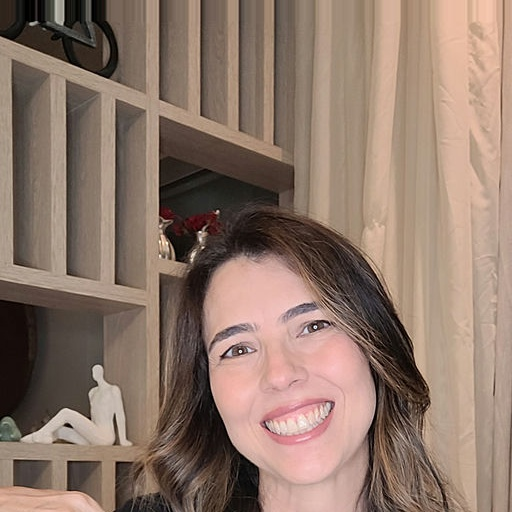
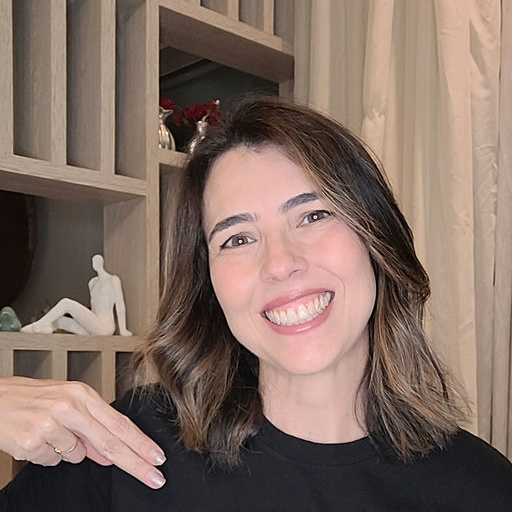
Corrige altura de Fabiana e centraliza corpo de Jaine

diff --git a/index.html b/index.html
@@ -24,7 +24,7 @@
                 <!-- CARD: Ana Elisa Iemini -->
                 <div class="mentor-card" data-index="0">
                     <div class="mentor-avatar-container">
-                        <img src="elementos/mentores/ana-elisa-iemini.jpg?v=3" alt="Foto de Ana Elisa Iemini" class="mentor-avatar-img" loading="lazy">
+                        <img src="elementos/mentores/ana-elisa-iemini.jpg?v=4" alt="Foto de Ana Elisa Iemini" class="mentor-avatar-img" loading="lazy">
                     </div>
                     <div class="mentor-info">
                         <h4 class="mentor-name">Ana Elisa Iemini</h4>
@@ -42,7 +42,7 @@
                 <!-- CARD: André Luis da Silva -->
                 <div class="mentor-card" data-index="1">
                     <div class="mentor-avatar-container">
-                        <img src="elementos/mentores/andre-luis-da-silva.jpg?v=3" alt="Foto de André Luis da Silva" class="mentor-avatar-img" loading="lazy">
+                        <img src="elementos/mentores/andre-luis-da-silva.jpg?v=4" alt="Foto de André Luis da Silva" class="mentor-avatar-img" loading="lazy">
                     </div>
                     <div class="mentor-info">
                         <h4 class="mentor-name">André Luis da Silva</h4>
@@ -60,7 +60,7 @@
                 <!-- CARD: Antônio Augusto Alves da Silva -->
                 <div class="mentor-card" data-index="2">
                     <div class="mentor-avatar-container">
-                        <img src="elementos/mentores/antonio-augusto-alves-da-silva.jpg?v=3" alt="Foto de Antônio Augusto Alves da Silva" class="mentor-avatar-img" loading="lazy">
+                        <img src="elementos/mentores/antonio-augusto-alves-da-silva.jpg?v=4" alt="Foto de Antônio Augusto Alves da Silva" class="mentor-avatar-img" loading="lazy">
                     </div>
                     <div class="mentor-info">
                         <h4 class="mentor-name">Antônio Augusto Alves da Silva</h4>
@@ -78,7 +78,7 @@
                 <!-- CARD: Bruno Mecchi Gouvea -->
                 <div class="mentor-card" data-index="3">
                     <div class="mentor-avatar-container">
-                        <img src="elementos/mentores/bruno-mecchi-gouvea.jpg?v=3" alt="Foto de Bruno Mecchi Gouvea" class="mentor-avatar-img" loading="lazy">
+                        <img src="elementos/mentores/bruno-mecchi-gouvea.jpg?v=4" alt="Foto de Bruno Mecchi Gouvea" class="mentor-avatar-img" loading="lazy">
                     </div>
                     <div class="mentor-info">
                         <h4 class="mentor-name">Bruno Mecchi Gouvea</h4>
@@ -96,7 +96,7 @@
                 <!-- CARD: Fabiana Gomes Almeida Calil -->
                 <div class="mentor-card" data-index="4">
                     <div class="mentor-avatar-container">
-                        <img src="elementos/mentores/fabiana-gomes-almeida-calil.jpg?v=3" alt="Foto de Fabiana Gomes Almeida Calil" class="mentor-avatar-img" loading="lazy">
+                        <img src="elementos/mentores/fabiana-gomes-almeida-calil.jpg?v=4" alt="Foto de Fabiana Gomes Almeida Calil" class="mentor-avatar-img" loading="lazy">
                     </div>
                     <div class="mentor-info">
                         <h4 class="mentor-name">Fabiana Gomes Almeida Calil</h4>
@@ -114,7 +114,7 @@
                 <!-- CARD: Giulia Silva da Silva Amarante -->
                 <div class="mentor-card" data-index="5">
                     <div class="mentor-avatar-container">
-                        <img src="elementos/mentores/giulia-silva-da-silva-amarante.jpg?v=3" alt="Foto de Giulia Silva da Silva Amarante" class="mentor-avatar-img" loading="lazy">
+                        <img src="elementos/mentores/giulia-silva-da-silva-amarante.jpg?v=4" alt="Foto de Giulia Silva da Silva Amarante" class="mentor-avatar-img" loading="lazy">
                     </div>
                     <div class="mentor-info">
                         <h4 class="mentor-name">Giulia Silva da Silva Amarante</h4>
@@ -132,7 +132,7 @@
                 <!-- CARD: Jaíne Cássia Fonseca Amaral -->
                 <div class="mentor-card" data-index="6">
                     <div class="mentor-avatar-container">
-                        <img src="elementos/mentores/jaine-cassia-fonseca-amaral.jpg?v=3" alt="Foto de Jaíne Cássia Fonseca Amaral" class="mentor-avatar-img" loading="lazy">
+                        <img src="elementos/mentores/jaine-cassia-fonseca-amaral.jpg?v=4" alt="Foto de Jaíne Cássia Fonseca Amaral" class="mentor-avatar-img" loading="lazy">
                     </div>
                     <div class="mentor-info">
                         <h4 class="mentor-name">Jaíne Cássia Fonseca Amaral</h4>
@@ -150,7 +150,7 @@
                 <!-- CARD: Lucas Henrique Cavalcante Iemini -->
                 <div class="mentor-card" data-index="7">
                     <div class="mentor-avatar-container">
-                        <img src="elementos/mentores/lucas-henrique-cavalcante-iemini.jpg?v=3" alt="Foto de Lucas Henrique Cavalcante Iemini" class="mentor-avatar-img" loading="lazy">
+                        <img src="elementos/mentores/lucas-henrique-cavalcante-iemini.jpg?v=4" alt="Foto de Lucas Henrique Cavalcante Iemini" class="mentor-avatar-img" loading="lazy">
                     </div>
                     <div class="mentor-info">
                         <h4 class="mentor-name">Lucas Henrique Cavalcante Iemini</h4>
@@ -168,7 +168,7 @@
                 <!-- CARD: Mateus Raimundo da Cruz -->
                 <div class="mentor-card" data-index="8">
                     <div class="mentor-avatar-container">
-                        <img src="elementos/mentores/mateus-raimundo-da-cruz.jpg?v=3" alt="Foto de Mateus Raimundo da Cruz" class="mentor-avatar-img" loading="lazy">
+                        <img src="elementos/mentores/mateus-raimundo-da-cruz.jpg?v=4" alt="Foto de Mateus Raimundo da Cruz" class="mentor-avatar-img" loading="lazy">
                     </div>
                     <div class="mentor-info">
                         <h4 class="mentor-name">Mateus Raimundo da Cruz</h4>
@@ -186,7 +186,7 @@
                 <!-- CARD: Rafael Cássio de Souza Bernardes -->
                 <div class="mentor-card" data-index="9">
                     <div class="mentor-avatar-container">
-                        <img src="elementos/mentores/rafael-cassio-de-souza-bernardes.jpg?v=3" alt="Foto de Rafael Cássio de Souza Bernardes" class="mentor-avatar-img" loading="lazy">
+                        <img src="elementos/mentores/rafael-cassio-de-souza-bernardes.jpg?v=4" alt="Foto de Rafael Cássio de Souza Bernardes" class="mentor-avatar-img" loading="lazy">
                     </div>
                     <div class="mentor-info">
                         <h4 class="mentor-name">Rafael Cássio de Souza Bernardes</h4>
@@ -204,7 +204,7 @@
                 <!-- CARD: Rafael Fernandes Mendonça -->
                 <div class="mentor-card" data-index="10">
                     <div class="mentor-avatar-container">
-                        <img src="elementos/mentores/rafael-fernandes-mendonca.jpg?v=3" alt="Foto de Rafael Fernandes Mendonça" class="mentor-avatar-img" loading="lazy">
+                        <img src="elementos/mentores/rafael-fernandes-mendonca.jpg?v=4" alt="Foto de Rafael Fernandes Mendonça" class="mentor-avatar-img" loading="lazy">
                     </div>
                     <div class="mentor-info">
                         <h4 class="mentor-name">Rafael Fernandes Mendonça</h4>
@@ -222,7 +222,7 @@
                 <!-- CARD: Raoní Teixeira Pinto Ribeiro -->
                 <div class="mentor-card" data-index="11">
                     <div class="mentor-avatar-container">
-                        <img src="elementos/mentores/raoni-teixeira-pinto-ribeiro.jpg?v=3" alt="Foto de Raoní Teixeira Pinto Ribeiro" class="mentor-avatar-img" loading="lazy">
+                        <img src="elementos/mentores/raoni-teixeira-pinto-ribeiro.jpg?v=4" alt="Foto de Raoní Teixeira Pinto Ribeiro" class="mentor-avatar-img" loading="lazy">
                     </div>
                     <div class="mentor-info">
                         <h4 class="mentor-name">Raoní Teixeira Pinto Ribeiro</h4>
@@ -240,7 +240,7 @@
                 <!-- CARD: Rovilson Vieira Junior -->
                 <div class="mentor-card" data-index="12">
                     <div class="mentor-avatar-container">
-                        <img src="elementos/mentores/rovilson-vieira-junior.jpg?v=3" alt="Foto de Rovilson Vieira Junior" class="mentor-avatar-img" loading="lazy">
+                        <img src="elementos/mentores/rovilson-vieira-junior.jpg?v=4" alt="Foto de Rovilson Vieira Junior" class="mentor-avatar-img" loading="lazy">
                     </div>
                     <div class="mentor-info">
                         <h4 class="mentor-name">Rovilson Vieira Junior</h4>
@@ -258,7 +258,7 @@
                 <!-- CARD: Thales Coutinho -->
                 <div class="mentor-card" data-index="13">
                     <div class="mentor-avatar-container">
-                        <img src="elementos/mentores/thales-coutinho.jpg?v=3" alt="Foto de Thales Coutinho" class="mentor-avatar-img" loading="lazy">
+                        <img src="elementos/mentores/thales-coutinho.jpg?v=4" alt="Foto de Thales Coutinho" class="mentor-avatar-img" loading="lazy">
                     </div>
                     <div class="mentor-info">
                         <h4 class="mentor-name">Thales Coutinho</h4>
@@ -276,7 +276,7 @@
                 <!-- CARD: Thales Tito Borges -->
                 <div class="mentor-card" data-index="14">
                     <div class="mentor-avatar-container">
-                        <img src="elementos/mentores/thales-tito-borges.jpg?v=3" alt="Foto de Thales Tito Borges" class="mentor-avatar-img" loading="lazy">
+                        <img src="elementos/mentores/thales-tito-borges.jpg?v=4" alt="Foto de Thales Tito Borges" class="mentor-avatar-img" loading="lazy">
                     </div>
                     <div class="mentor-info">
                         <h4 class="mentor-name">Thales Tito Borges</h4>
